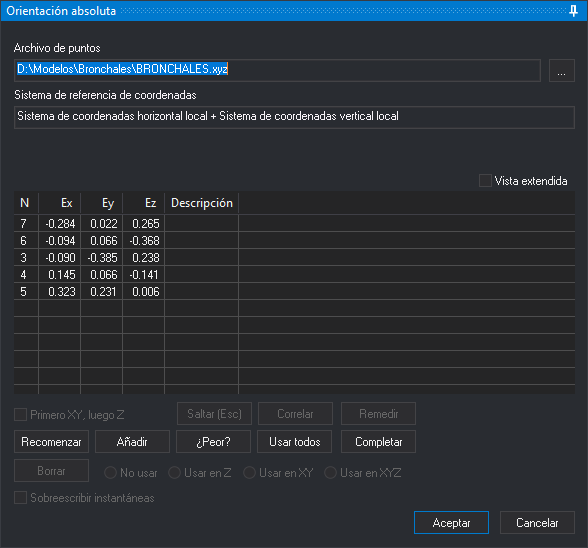
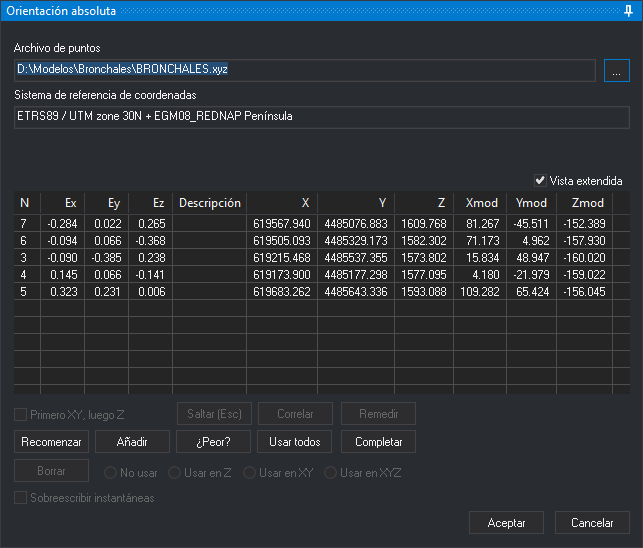
ORI_ABSOLUTA: captura nueva con la vista extendida y clic en la lista
Un clic en un punto de la lista lleva el cursor a él; el doble clic, además, lo deja
listo para volver a medirlo.

diff --git a/src/digi3d-ai/referencia/ventana-fotogrametrica/ordenes/o/ori-absoluta.md b/src/digi3d-ai/referencia/ventana-fotogrametrica/ordenes/o/ori-absoluta.md
@@ -9,14 +9,14 @@ No admite parámetros.
 
 ## Panel Orientación absoluta
 
-![Panel Orientación absoluta con cinco puntos medidos](../../../../../images/panel-orientacion-absoluta.png)
+![Panel Orientación absoluta con cinco puntos medidos y la vista extendida](../../../../../images/panel-orientacion-absoluta.png)
 
 Esta orden muestra este panel, en el que se miden los puntos de apoyo y se ven los residuos de la orientación. Los botones que no se pueden usar en cada momento aparecen desactivados.
 
 * **Archivo de puntos**: archivo con las coordenadas terreno de los puntos de apoyo. El botón **...** abre el cuadro de diálogo [Archivo de puntos de apoyo](../../../cuadros-de-dialogo/archivo-de-puntos-de-apoyo.md) para cambiarlo.
 * **Sistema de referencia de coordenadas**: el sistema de las coordenadas del archivo de puntos.
 * **Vista extendida**: añade a la lista las coordenadas terreno (**X**, **Y**, **Z**) y modelo (**Xmod**, **Ymod**, **Zmod**) de cada punto. Digi3D.AI recuerda su estado.
-* **Lista de puntos medidos**: el nombre de cada punto (**N**), sus residuos en X, Y y Z (**Ex**, **Ey**, **Ez**) y su **Descripción**. Hacer doble clic en un punto lleva el cursor a él para volver a medirlo.
+* **Lista de puntos medidos**: el nombre de cada punto (**N**), sus residuos en X, Y y Z (**Ex**, **Ey**, **Ez**) y su **Descripción**. Hacer clic en un punto lleva el cursor a él; hacer doble clic, además, lo deja listo para volver a medirlo.
 * **Primero XY, luego Z**: el punto se mide en dos pasos: el primer dato registra la posición en planta y el segundo, la Z.
 * **Saltar (Esc)**: mientras se espera la medida de un punto, lo descarta y pasa al siguiente. Con un punto seleccionado en la lista, quita la selección.
 * **Correlar**: ejecuta la orden CORRELAR para ajustar automáticamente la posición en la otra imagen.
